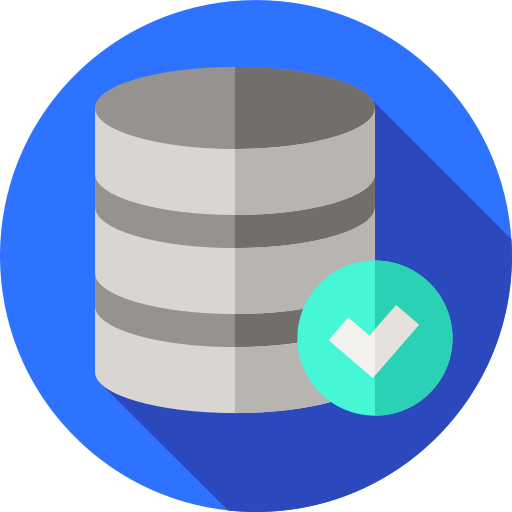
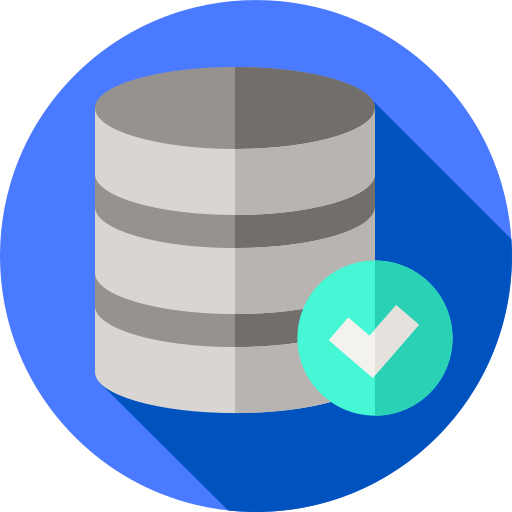
icônes bleues + hover

diff --git a/style.css b/style.css
@@ -83,12 +83,26 @@ h1 {
 	margin-right: 1%;
 	font-size: 15px;
 	padding: 9px;
-	background-color: #6c757d !important;
+	background-color: #497bff !important;
 	color: rgb(255, 255, 255) !important;
 	border-radius: 10px;
 	margin-bottom: 0.5vh;
 }
 
+.btn-outline-secondary{
+	--bs-btn-color:#497bff !important;
+	--bs-btn-border-color:#497bff !important;
+	--bs-btn-hover-bg:#497bff !important;
+	--bs-btn-hover-border-color:#497bff !important;
+	--bs-btn-active-bg:#497bff !important;
+	--bs-btn-disabled-color:#497bff !important;
+	--bs-btn-disabled-border-color:#497bff !important;
+	--bs-btn-focus-shadow-rgb:0,70,255 !important
+}
+
+.dropdown-item{
+	--bs-dropdown-link-active-bg:#497bff !important
+}
 
 .badge.bg-secondary:hover {
 	background-color: rgb(158, 158, 158) !important;
@@ -116,7 +130,9 @@ pre {
 	font-family: Consolas !important;
 	font-size: 15px;
 }
-
+.hljs-keyword{
+	color:#497bff !important
+}
 
 pre code {
 	font-family: monospace !important;
@@ -176,9 +192,7 @@ p {
 	font-size: 15px;
 }
 
-.nav-link.dropdown-toggle, .nav-link{
-	font-weight: 500 !important;
-}
+
 
 .carousel-control-next-icon, .carousel-control-prev-icon{
 	border:1px solid rgb(46, 46, 46) !important;

diff --git a/index.html b/index.html
@@ -114,7 +114,7 @@
     <div class="row row-cols-1 row-cols-sm-2 row-cols-md-3 row-cols-lg-4 g-4 py-5">
 
       <div class="col d-flex align-items-start">
-        <img src="image/army.png" id="min" alt="">        <div>
+        <img src="image/antenna.png" id="min" alt="">        <div>
           <h5 class="card-title">Télédétection</h4>
           <p>Utilisation d'imagerie satellite ou issue de drones pour réaliser des analyses raster.</p>
         </div>
@@ -132,7 +132,7 @@
         </div>
       </div>
       <div class="col d-flex align-items-start">
-        <img src="image/destination.png" id="min" alt="">        <div>
+        <img src="image/map.png" id="min" alt="">        <div>
           <h5 class="card-title">Application web</h4>
           <p>Intégration de frameworks comme Dash en Python ou de Leaflet.js pour réaliser des interfaces d'application web.</p>
         </div>
